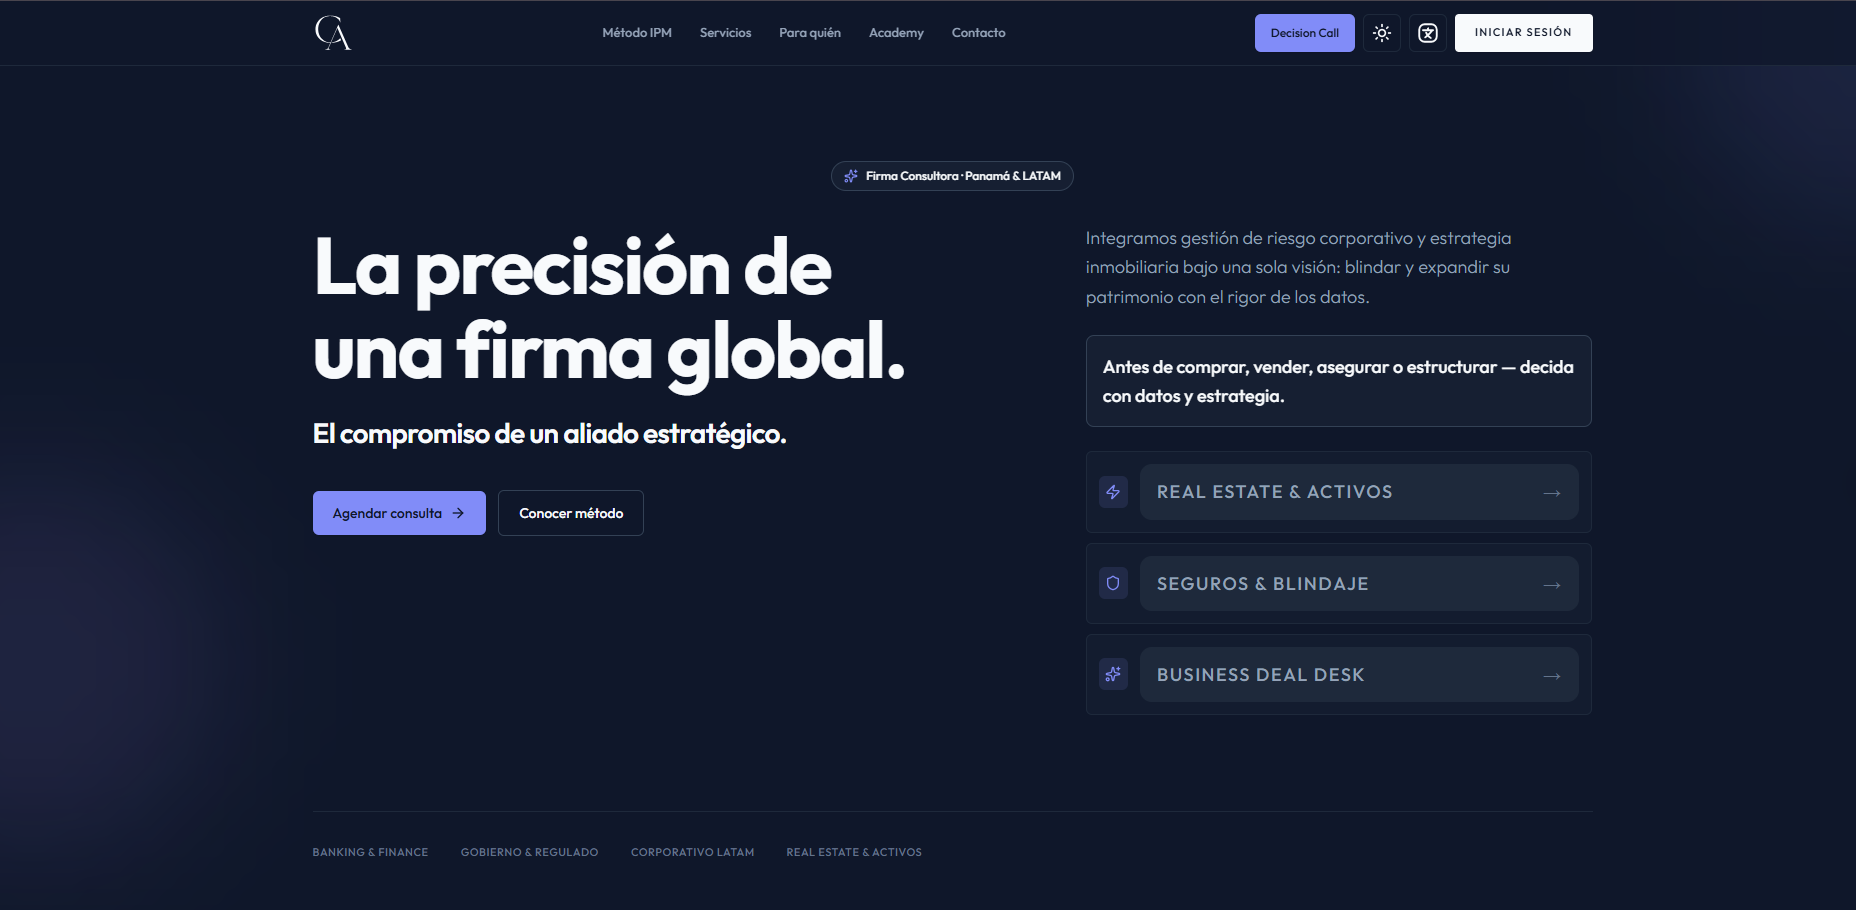
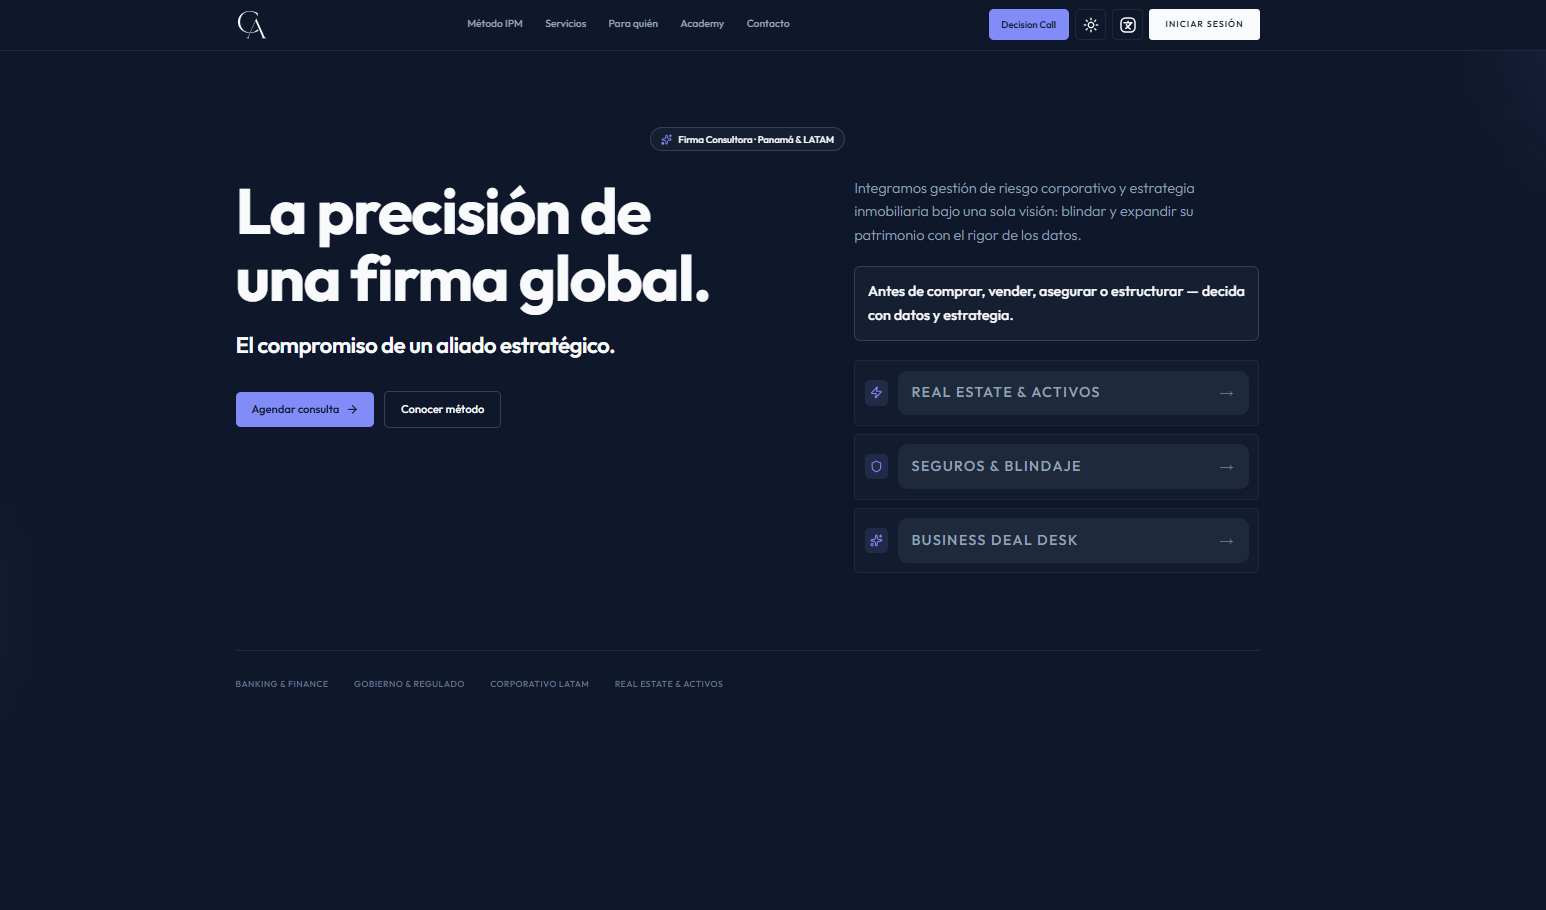
img fix

diff --git a/src/components/molecules/ProjectCard.tsx b/src/components/molecules/ProjectCard.tsx
@@ -76,7 +76,7 @@ export function ProjectCard({ metadata, translations }: ProjectCardProps) {
 
             {metadata.imgproject &&
                 <LinkButton
-                    className={`qw:w-[47.9%] qw:h-full h-auto rounded-xl overflow-hidden border tracking-widest transition-all duration-300 hover:border-accent cursor-pointer${inConstruction}`}
+                    className={`qw:w-[47.9%] qw:h-full h-auto object- rounded-xl overflow-hidden border tracking-widest transition-all duration-300 hover:border-accent cursor-pointer${inConstruction}`}
                     link={metadata.linklivedemo}
                     img={metadata.imgproject}
                     classNameImg="object-cover"